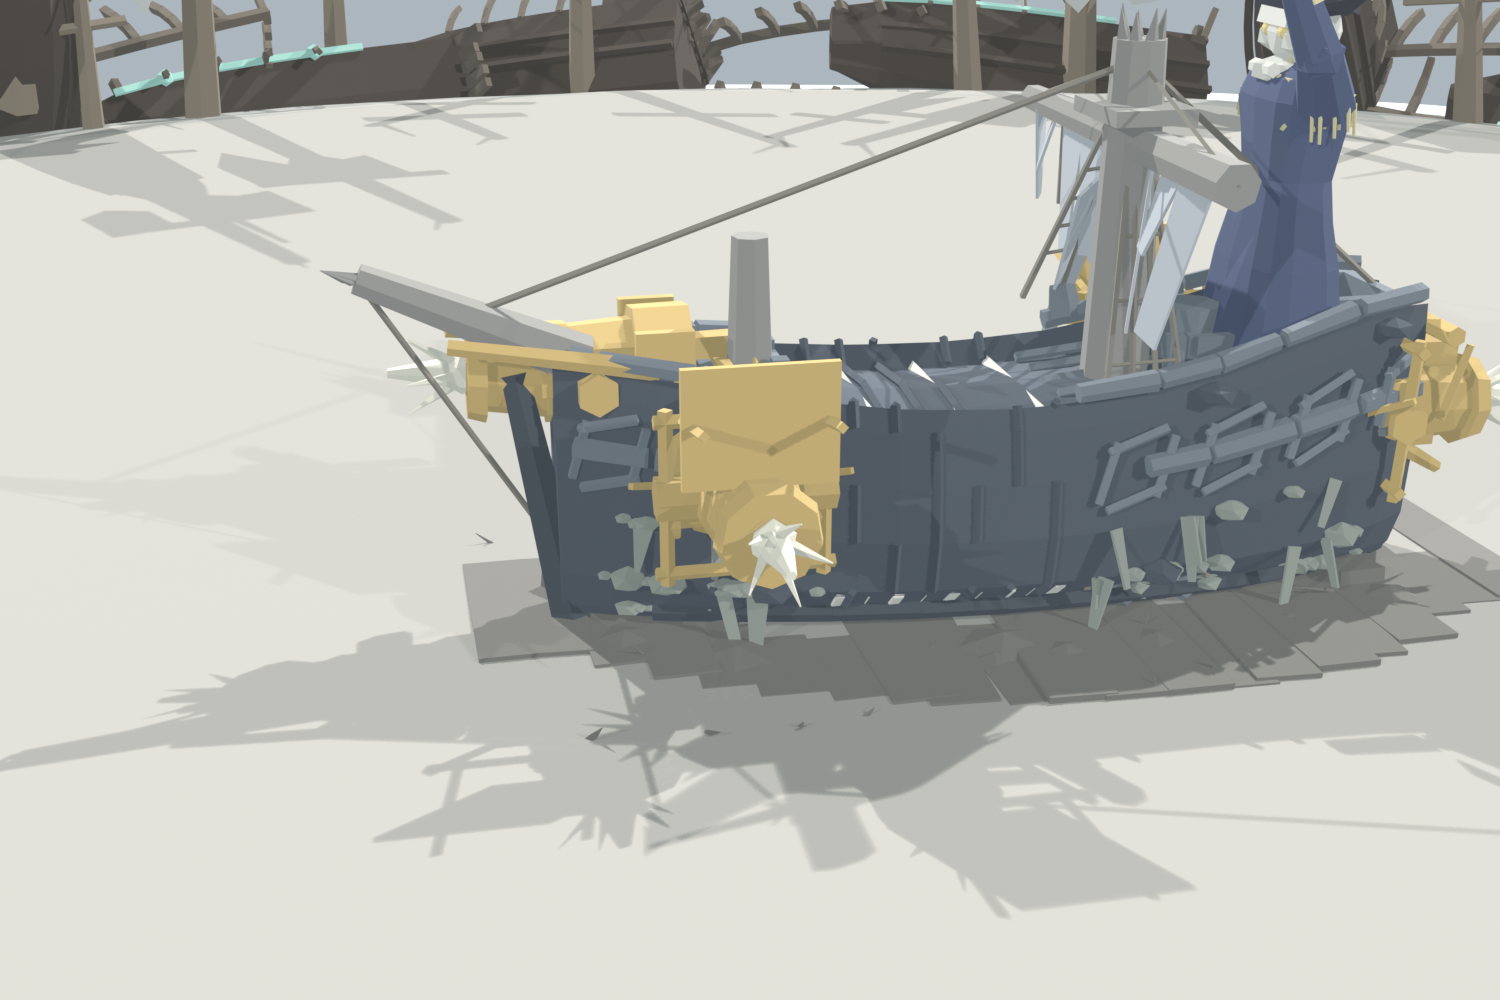
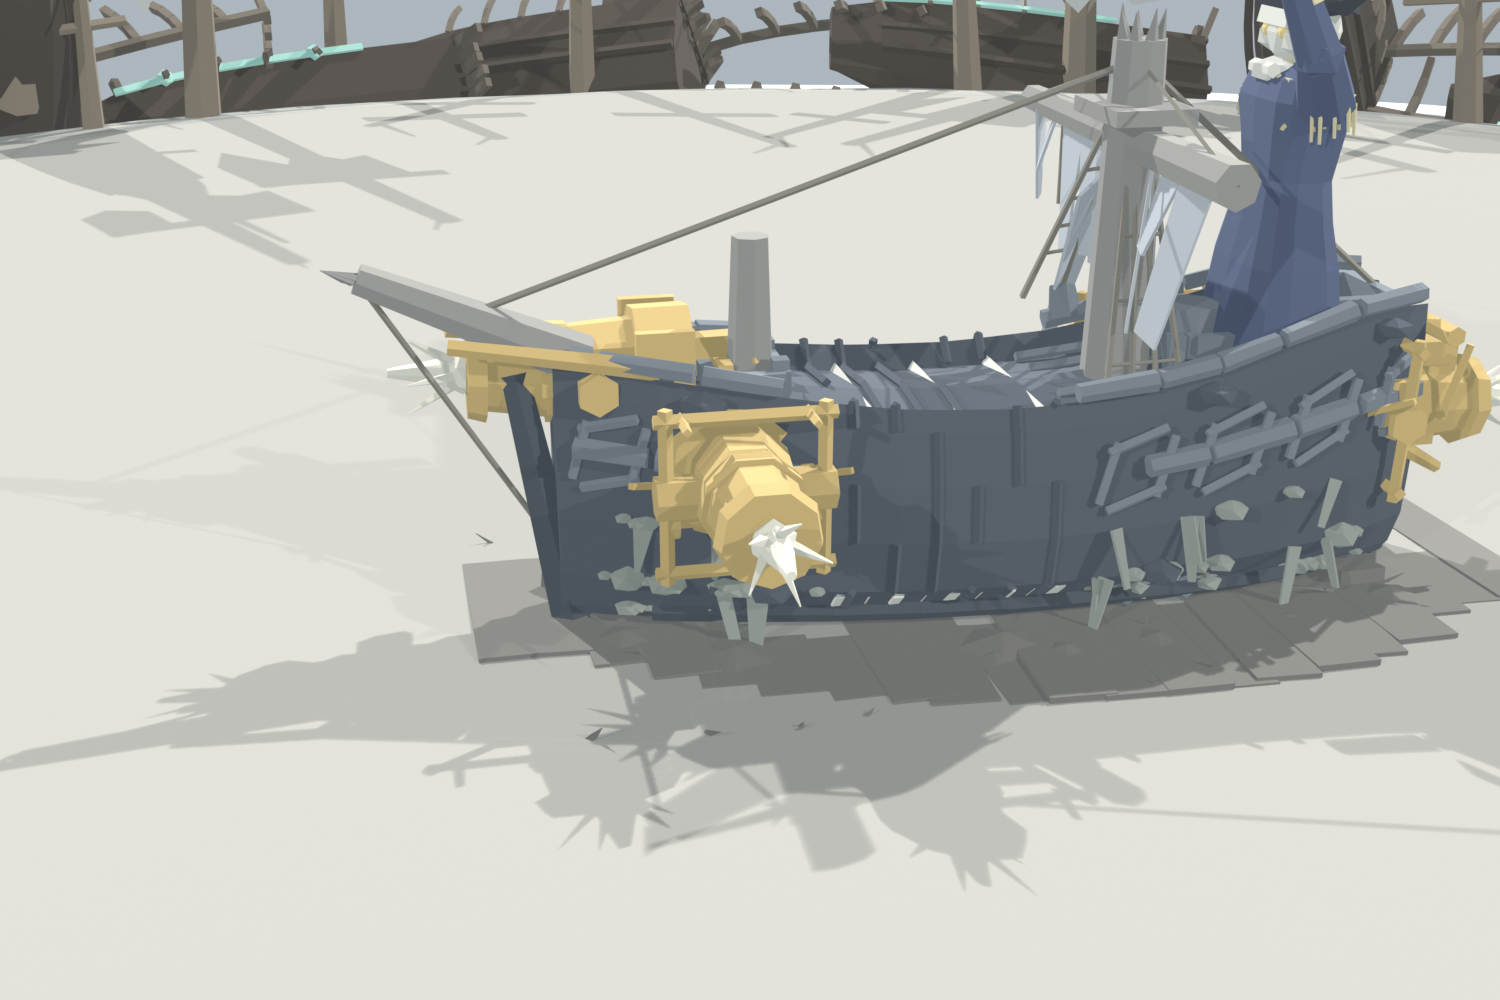
Wrack's gunports lose the lids they could never have painted
The redesign's staged sheet had one thing visibly wrong: a bright yellow panel
the size of a door standing off each broadside, reading as a signboard bolted
to the hull rather than as part of the ship - which is the exact failure the
redesign existed to fix.

The cause is not size, so shrinking it was never the fix. A gunport lid
belongs to the ship's SIDE and is timber, but the lid was built inside the
CANNON object, and _wr_finish gives every object exactly one flat material -
the rule that keeps six bosses' palettes and this boss's own arena from
repainting each other. So the lid was brass because of where it lived, and no
amount of reshaping was going to change that.

Two honest fixes existed: move the lids into Wrack_Strakes, where they would
come out as timber, or drop them. The move is the richer one and is recorded
in the code as a note - but it is two edit sites in a generator four lanes are
taking turns in, and it was not worth the lock. What ships instead keeps the
half of the object that is honestly ironwork and honestly brass: the two hinge
straps still bolted to each port's top edge, with the lid long since torn off
them. A wreck missing her port lids is the reading the rest of the model
already asks for.

Blast radius, asserted in advance and then checked: only Wrack_CannonPort and
Wrack_CannonStarboard may move. Wrack_CannonBow has no port frame and
Wrack_CannonStern passes lid_up=False, so both are unchanged by construction -
[…]

diff --git a/assets/boss_gen.py b/assets/boss_gen.py
@@ -3741,18 +3741,28 @@ def _wr_portframe(bm, muzzle, n, bore, lid_up=True):
         span = (side * half * 2.3) if dz else (up * half * 2.3)
         _wr_tube(bm, at + offset - span / 2, at + offset + span / 2, 0.32, 0.32, 4)
     if lid_up:
-        # The lid, thrown up and out of the way, on its two chains. It goes
-        # mostly OUTBOARD rather than up: hinged on the port's top edge and
-        # hauled level, which is how a gunport lid actually sits when the gun
-        # is run out - and, less romantically, a lid swung to the vertical on
-        # a port this size stood nine studs proud of the rail and turned the
-        # broadside cannon into the tallest thing on the ship's side.
+        # NO LID, and this is the one thing the redesign's first staged sheet
+        # got wrong. A gunport lid belongs to the ship's SIDE and is timber;
+        # this object is the CANNON, and it carries one flat brass material,
+        # so a lid built here came out as a bright yellow panel the size of a
+        # door standing off the hull - reading as a signboard rather than as
+        # part of the ship, which is the exact failure the redesign existed to
+        # fix. Shrinking it does not help: the defect is the COLOUR, and the
+        # colour is not this object's to change (a second material here would
+        # break the one-material-per-object rule _wr_finish is built on).
+        # Moving the lids into Wrack_Strakes, where they would come out as
+        # timber, is the richer fix; it is two edit sites and is left as a
+        # note rather than done here.
+        #
+        # So what stays is the half that is honestly ironwork and honestly
+        # brass: the two hinge straps still bolted to the frame's top edge,
+        # with the lid long since torn off them. She has been standing on this
+        # shoal a long time, and a wreck missing her port lids is the reading
+        # the rest of the model already asks for.
         hinge = at + up * half
-        lid = hinge + up * half * 0.35 + n * half * 1.6
         for s in (-1, 1):
-            _wr_tube(bm, hinge + side * (s * half * 0.8), lid + side * (s * half * 0.8), 0.24, 0.24, 4)
-        box(bm, (lid + hinge) / 2 + n * 0.2, (0.35, half * 1.9, half * 1.5),
-            Matrix.Rotation(math.atan2(n.y, n.x), 3, "Z"))
+            root = hinge + side * (s * half * 0.8)
+            _wr_tube(bm, root - n * 0.4, root + n * half * 0.45, 0.26, 0.20, 4)
 
 
 def build_wr_cannon_bow(rng):
